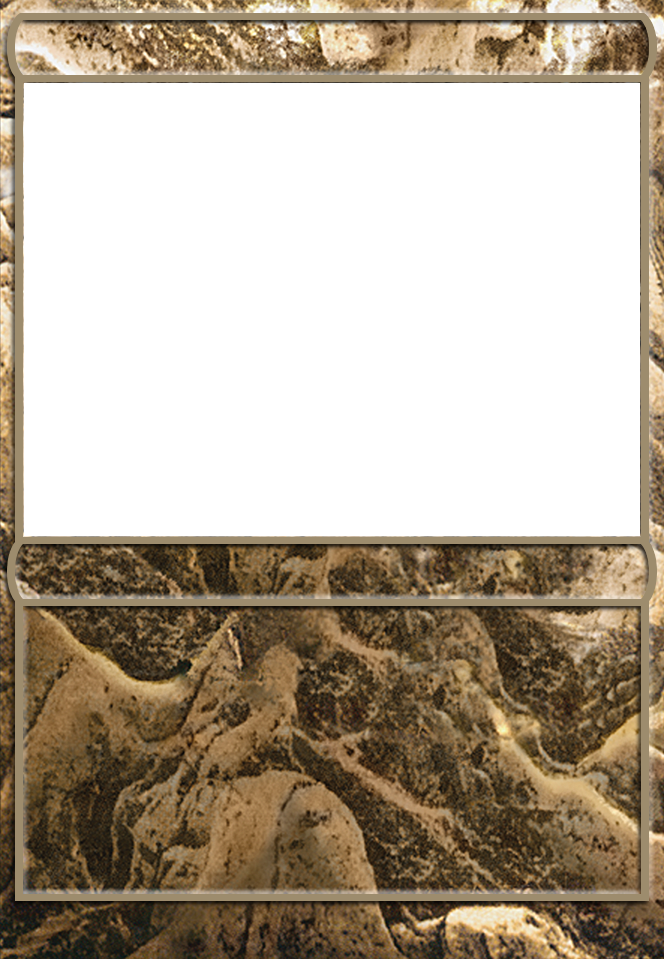
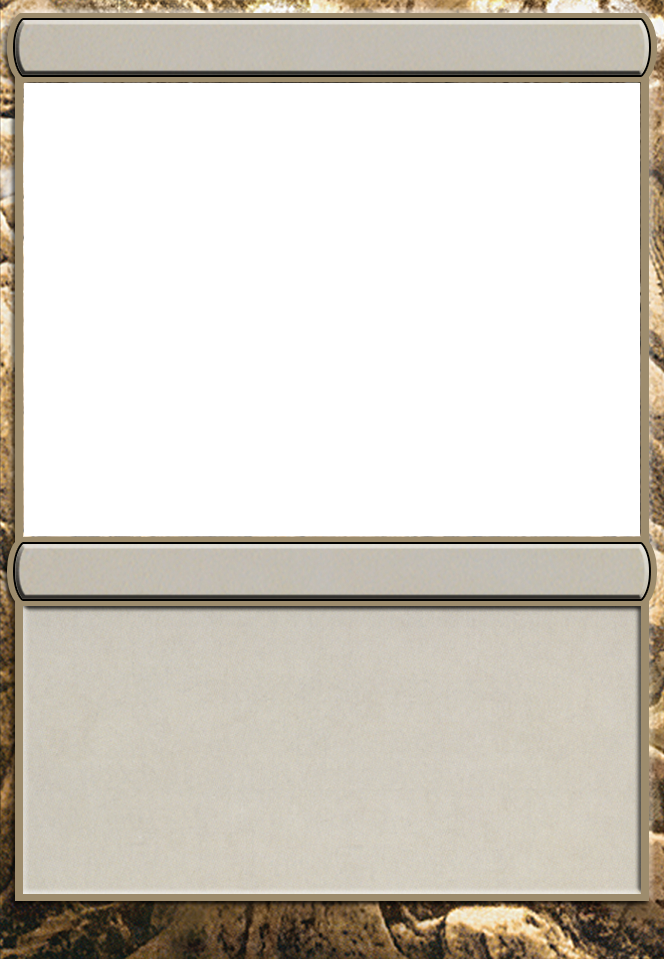
add land frame

diff --git a/src/blocks/MagicCardApp.tsx b/src/blocks/MagicCardApp.tsx
@@ -38,6 +38,7 @@ import iconX from "../blocks/assets/MagicCard/icons/x.png";
 import blackBorder from "../blocks/assets/MagicCard/borders/black-border.png";
 import whiteBorder from "../blocks/assets/MagicCard/borders/white-border.png";
 
+import landFrame from "../blocks/assets/MagicCard/frames/land-frame.png";
 import artifactFrame from "../blocks/assets/MagicCard/frames/artifact-frame.png";
 import whiteFrame from "../blocks/assets/MagicCard/frames/white-frame.png";
 import blackFrame from "../blocks/assets/MagicCard/frames/black-frame.png";
@@ -45,6 +46,7 @@ import blueFrame from "../blocks/assets/MagicCard/frames/blue-frame.png";
 import greenFrame from "../blocks/assets/MagicCard/frames/green-frame.png";
 import redFrame from "../blocks/assets/MagicCard/frames/red-frame.png";
 
+import landPtBox from "../blocks/assets/MagicCard/ptBoxes/land-pt-box.png";
 import artifactPtBox from "../blocks/assets/MagicCard/ptBoxes/artifact-pt-box.png";
 import whitePtBox from "../blocks/assets/MagicCard/ptBoxes/white-pt-box.png";
 import blackPtBox from "../blocks/assets/MagicCard/ptBoxes/black-pt-box.png";
@@ -54,7 +56,7 @@ import redPtBox from "../blocks/assets/MagicCard/ptBoxes/red-pt-box.png";
 
 import "../blocks/assets/MagicCard/magicCard.css";
 
-const cardColors = ["artifact", "white", "blue", "black", "red", "green"] as const;
+const cardColors = ["land", "artifact", "white", "blue", "black", "red", "green"] as const;
 type CardColor = (typeof cardColors)[number];
 const borderColors = ["black", "white"] as const;
 type BorderColor = (typeof borderColors)[number];
@@ -129,6 +131,7 @@ const resources: Resources = {
     "{x}": iconX,
   },
   frames: {
+    land: landFrame,
     artifact: artifactFrame,
     white: whiteFrame,
     black: blackFrame,
@@ -137,6 +140,7 @@ const resources: Resources = {
     red: redFrame,
   },
   ptBoxes: {
+    land: landPtBox,
     artifact: artifactPtBox,
     white: whitePtBox,
     black: blackPtBox,
@@ -481,6 +485,7 @@ const MagicCardEditor = forwardRef(
                   value={props.cardColor}
                   onChange={(e) => props.setCardColor(e.target.value as CardColor)}
                 >
+                  <option value="land">Land</option>
                   <option value="artifact">Artifact</option>
                   <option value="white">White</option>
                   <option value="blue">Blue</option>
